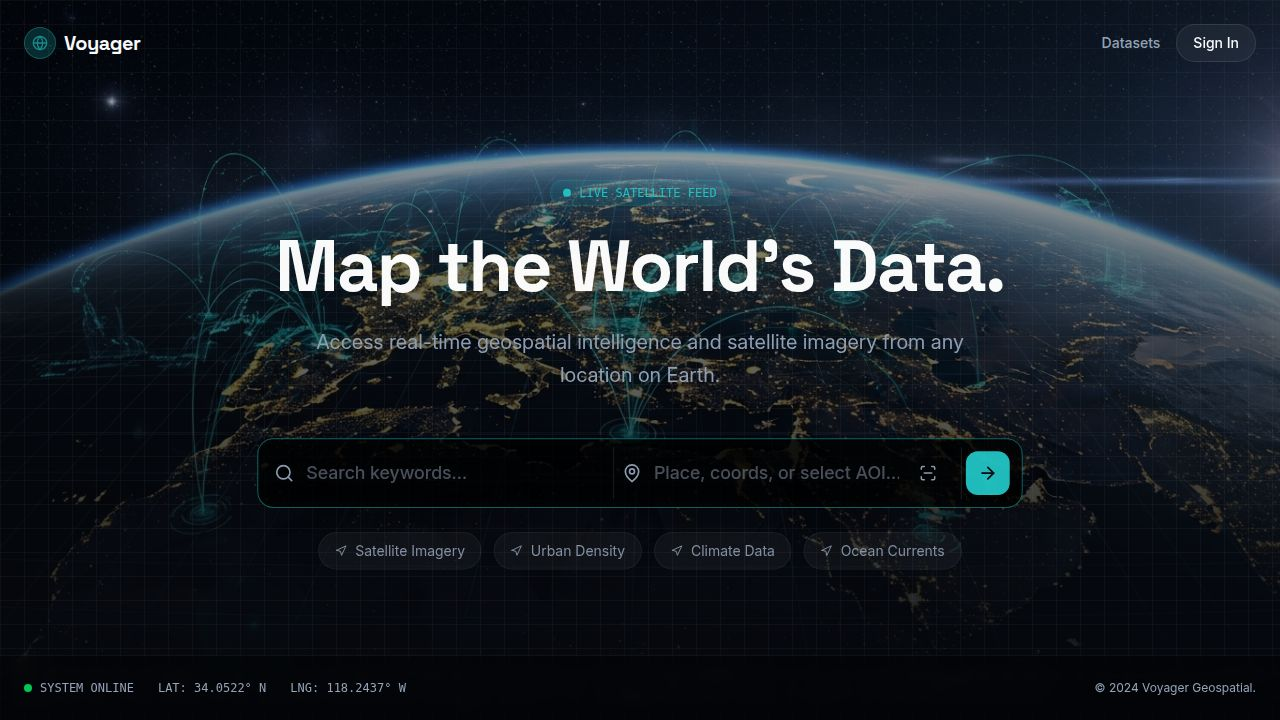
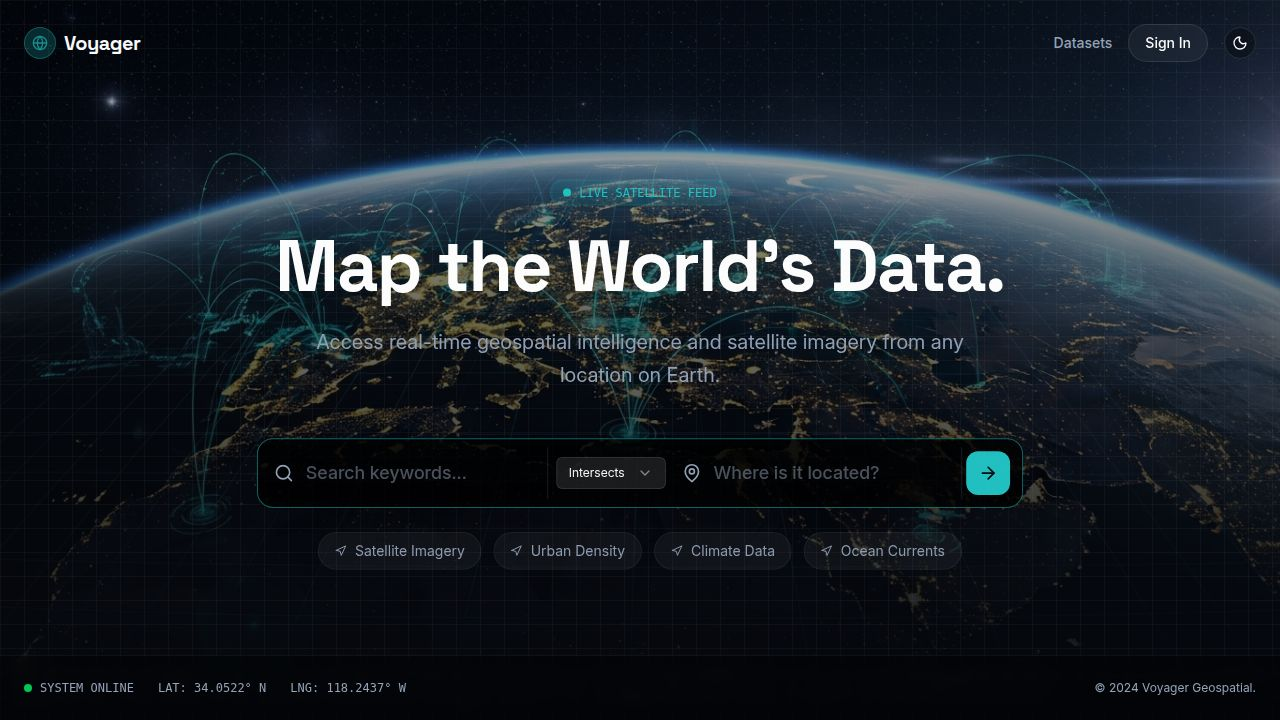
Add ability to search for locations by typing or drawing on a map
Adds a location search input to the home page. Allows users to either type a place name or draw a bounding box on a map to define their search area.

Replit-Commit-Author: Agent
Replit-Commit-Session-Id: c0fae4fa-6702-408f-ade5-af7f8521c2ab
Replit-Commit-Checkpoint-Type: full_checkpoint
Replit-Commit-Event-Id: 2b25d312-a37b-4b8d-9d4b-4408ea317ea1
Replit-Commit-Screenshot-Url: https://storage.googleapis.com/screenshot-production-us-central1/754668fe-c386-4e2b-871c-f13b6993eee0/c0fae4fa-6702-408f-ade5-af7f8521c2ab/tknwhAA
Replit-Helium-Checkpoint-Created: true

Changed region(s): [[0.4375, 0.6111, 0.6875, 0.7028], [0.8125, 0.0306, 1.0, 0.0917]]

diff --git a/client/src/pages/home.tsx b/client/src/pages/home.tsx
@@ -137,6 +137,7 @@ export default function Home() {
                 <MapPin className="w-5 h-5 text-muted-foreground flex-shrink-0" />
                 <div className="w-full relative">
                   <input
+                    id="loc-input"
                     type="text"
                     value={place}
                     onChange={(e) => setPlace(e.target.value)}
@@ -148,19 +149,37 @@ export default function Home() {
                   />
                   {isLocationFocused && (
                     <div className="absolute top-full left-0 w-full mt-2 bg-black/90 backdrop-blur-xl border border-white/10 rounded-xl shadow-2xl overflow-hidden z-50 animate-in fade-in slide-in-from-top-2">
-                      <button
-                        type="button"
-                        onClick={() => setIsPickerOpen(true)}
-                        className="w-full flex items-center gap-3 px-4 py-3 hover:bg-white/10 transition-colors text-left group"
-                      >
-                        <div className="w-8 h-8 rounded-lg bg-primary/20 flex items-center justify-center border border-primary/30 group-hover:border-primary/60 transition-colors">
-                          <svg xmlns="http://www.w3.org/2000/svg" width="16" height="16" viewBox="0 0 24 24" fill="none" stroke="currentColor" strokeWidth="2" strokeLinecap="round" strokeLinejoin="round" className="text-primary"><rect width="18" height="18" x="3" y="3" rx="2" ry="2"/><circle cx="9" cy="9" r="2"/><path d="m21 15-3.086-3.086a2 2 0 0 0-2.828 0L6 21"/></svg>
-                        </div>
-                        <div>
-                          <div className="text-sm font-medium text-foreground">Draw Bounding Box</div>
-                          <div className="text-xs text-muted-foreground">Define spatial extent on map</div>
-                        </div>
-                      </button>
+                      <div className="p-2 space-y-1">
+                        <button
+                          type="button"
+                          onMouseDown={(e) => e.preventDefault()} // Prevent blur
+                          onClick={() => document.getElementById('loc-input')?.focus()}
+                          className="w-full flex items-center gap-3 px-3 py-2 rounded-lg hover:bg-white/10 transition-colors text-left group"
+                        >
+                          <div className="w-8 h-8 rounded-lg bg-blue-500/20 flex items-center justify-center border border-blue-500/30 group-hover:border-blue-500/60 transition-colors">
+                            <Search className="w-4 h-4 text-blue-400" />
+                          </div>
+                          <div>
+                            <div className="text-sm font-medium text-foreground">Search Place</div>
+                            <div className="text-xs text-muted-foreground">Type address or city name</div>
+                          </div>
+                        </button>
+                        
+                        <button
+                          type="button"
+                          onMouseDown={(e) => e.preventDefault()} // Prevent blur
+                          onClick={() => setIsPickerOpen(true)}
+                          className="w-full flex items-center gap-3 px-3 py-2 rounded-lg hover:bg-white/10 transition-colors text-left group"
+                        >
+                          <div className="w-8 h-8 rounded-lg bg-primary/20 flex items-center justify-center border border-primary/30 group-hover:border-primary/60 transition-colors">
+                            <svg xmlns="http://www.w3.org/2000/svg" width="16" height="16" viewBox="0 0 24 24" fill="none" stroke="currentColor" strokeWidth="2" strokeLinecap="round" strokeLinejoin="round" className="text-primary"><rect width="18" height="18" x="3" y="3" rx="2" ry="2"/><circle cx="9" cy="9" r="2"/><path d="m21 15-3.086-3.086a2 2 0 0 0-2.828 0L6 21"/></svg>
+                          </div>
+                          <div>
+                            <div className="text-sm font-medium text-foreground">Draw Bounding Box</div>
+                            <div className="text-xs text-muted-foreground">Define spatial extent on map</div>
+                          </div>
+                        </button>
+                      </div>
                     </div>
                   )}
                 </div>
